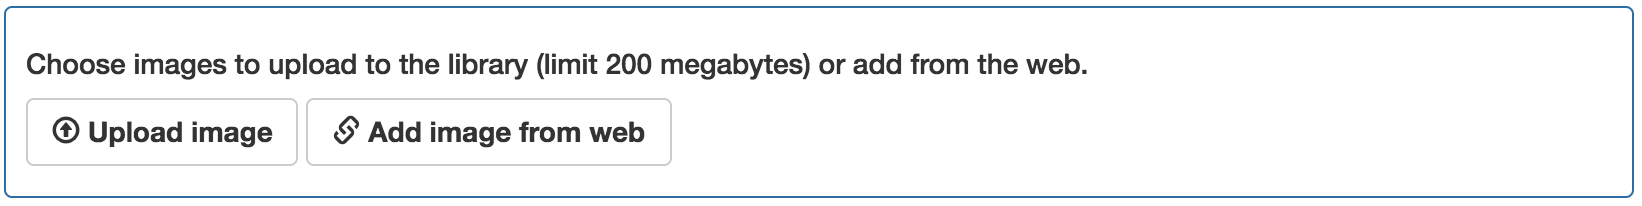
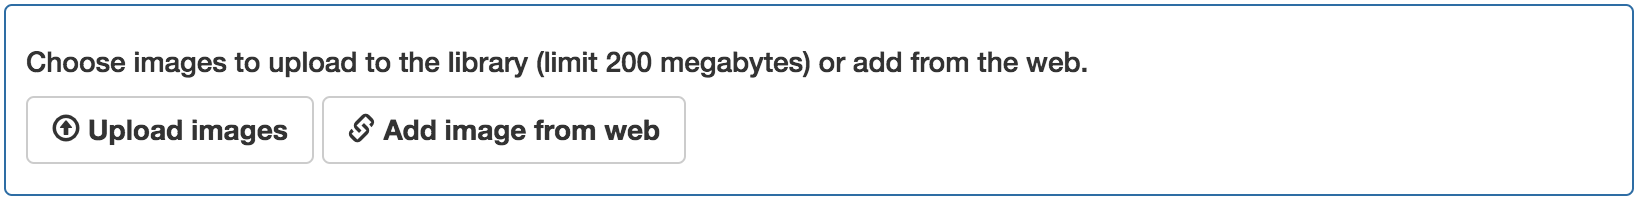
ATGU-581_MediaManagerUploadImage - screen capture and UI code of proposed interface

diff --git a/ATGU-581_MediaManagerUploadImage/index.html b/ATGU-581_MediaManagerUploadImage/index.html
@@ -1,4 +1,5 @@
 
 <label for="uploadimages" class="button-library" ng-click="wc.addImageSource = 'file'">
-              <i class="glyphicon glyphicon-upload"></i> Upload image
+<!--UI comment - change Upload image to Upload images-->
+              <i class="glyphicon glyphicon-upload"></i> Upload images
           </label>
